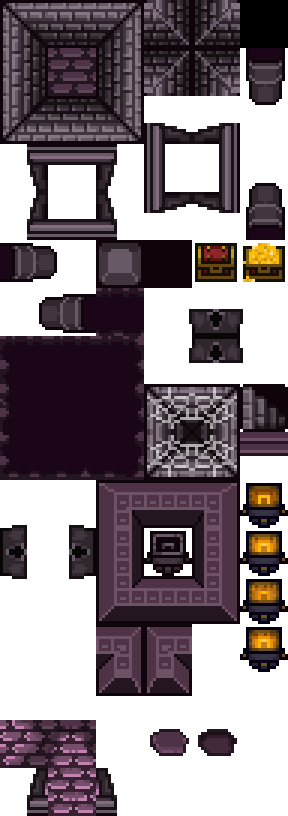
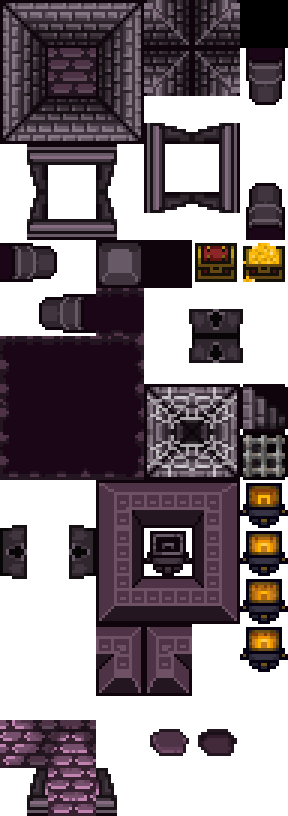
added boss

Changed region(s): [[0.8125, 0.5208, 1.0, 0.6127]]

diff --git a/src/objects/enemy.js b/src/objects/enemy.js
@@ -1,27 +1,56 @@
 import Phaser from 'phaser'
+import TILES from '../tile-mapping.js'
+
+// assets
 import enemies from '../assets/enemies.png'
+import deamonSprite from "../assets/deamon.png";
 
 export default class Enemy {
-  constructor(dungeon, map, room) {
-    this.dungeon = dungeon;
-    this.map = map;
-    this.room = room;
+  constructor(dungeon, map, room, type, dieCallback) {
+    this.dungeon = dungeon
+    this.map = map
+    this.room = room
+    this.type = type
     this.directionX = ['left', 'right'][Phaser.Math.Between(0, 1)]
     this.directionY = ['up', 'down'][Phaser.Math.Between(0, 1)]
     this.underAttack = false
-    this.hp = 3
+    this.dieCallback = dieCallback
 
     const x = map.tileToWorldX(Phaser.Math.Between(room.left + 1, room.right - 1))
     const y = map.tileToWorldX(Phaser.Math.Between(room.top + 1, room.bottom - 1))
 
-    this.sprite = this.dungeon.physics.add
-      .sprite(x, y, "enemies", 0)
-      .setSize(27, 28)
-      .setOffset(20, 35);
+    if (this.type === 'deamon') {
+      this.hp = 25
+      this.sprite = this.dungeon.physics.add.sprite(x, y, 'deamon', 1).setSize(75, 90).setOffset(23, 19)
+      this.sprite.anims.play("deamon-idle")
+      this.dungeon.tilemapVisibility.lights.push({
+        sprite: this.sprite,
+        darkness: () => 3
+      })
+    }
+    if (this.type === 'snake') {
+      this.hp = 3
+      this.sprite = this.dungeon.physics.add
+        .sprite(x, y, "enemies", 0)
+        .setSize(27, 28)
+        .setOffset(20, 35)
+      this.sprite.anims.play("enemy-walk")
+    }
 
-    this.sprite.anims.play("enemy-walk");
-
-    this.dungeon.physics.add.collider(this.sprite, this.dungeon.groundLayer);
+    this.dungeon.physics.add.collider(this.sprite, this.dungeon.groundLayer, (enemy, wall) => {
+      if ([TILES.WALL.TOP, ...TILES.DOOR.TOP].includes(wall.index)) {
+        this.directionY = 'down'
+      }
+      if ([TILES.WALL.RIGHT, ...TILES.DOOR.RIGHT[0]].includes(wall.index)) {
+        this.directionX = 'left'
+      }
+      if ([TILES.WALL.BOTTOM, ...TILES.DOOR.BOTTOM].includes(wall.index)) {
+        this.directionY = 'up'
+      }
+      if ([TILES.WALL.LEFT, ...TILES.DOOR.LEFT[0]].includes(wall.index)) {
+        this.directionX = 'right'
+      }
+    });
 
     this.dungeon.physics.add.overlap(this.dungeon.hero.sprites.hero, this.sprite, (hero, enemy) => {
       if (!this.dungeon.hero.underAttack) {
@@ -59,18 +88,23 @@ export default class Enemy {
         this.dungeon.cameras.main.shake(500, .002)
         this.underAttack = true
         this.hp--
-        if (this.dungeon.hero.lastDirection === 'up') {
-          enemy.body.setVelocityY(-300)
-        } else if (this.dungeon.hero.lastDirection === 'down') {
-          enemy.body.setVelocityY(300)
-        } else if (this.dungeon.hero.lastDirection === 'left') {
-          enemy.body.setVelocityX(-300)
-        } else if (this.dungeon.hero.lastDirection === 'right') {
-          enemy.body.setVelocityX(300)
+        if (this.hp) {
+          if (this.dungeon.hero.lastDirection === 'up') {
+            enemy.body.setVelocityY(-300)
+          } else if (this.dungeon.hero.lastDirection === 'down') {
+            enemy.body.setVelocityY(300)
+          } else if (this.dungeon.hero.lastDirection === 'left') {
+            enemy.body.setVelocityX(-300)
+          } else if (this.dungeon.hero.lastDirection === 'right') {
+            enemy.body.setVelocityX(300)
+          }
+          this.dungeon.time.delayedCall(750, () => {
+            this.underAttack = false
+          });
+        } else if (this.dieCallback) {
+          this.sprite.destroy()
+          this.dieCallback(this)
         }
-        this.dungeon.time.delayedCall(750, () => {
-          this.underAttack = false
-        });
       }
     });
   }
@@ -84,6 +118,14 @@ export default class Enemy {
         frameHeight: 64,
         margin: 1,
         spacing: 2
+      }
+    );
+    scene.load.spritesheet(
+      "deamon",
+      deamonSprite,
+      {
+        frameWidth: 122,
+        frameHeight: 118
       }
     );
   }
@@ -105,25 +147,13 @@ export default class Enemy {
         sprite.body.setVelocityX(speed);
         sprite.setFlipX(false);
       }
-      if (sprite.body.x <= this.map.tileToWorldX(this.room.x + 2)) {
-        this.directionX = 'right'
-      }
-      if (sprite.body.x >= this.map.tileToWorldX(this.room.x + this.room.width - 2)) {
-        this.directionX = 'left'
-      }
 
       // vertical movement
       if (this.directionY === 'up') {
-        sprite.body.setVelocityY(speed);
-      }
-      if (this.directionY === 'down') {
         sprite.body.setVelocityY(-speed);
       }
-      if (sprite.body.y <= this.map.tileToWorldY(this.room.y + 2)) {
-        this.directionY = 'up'
-      }
-      if (sprite.body.y >= this.map.tileToWorldY(this.room.y + this.room.height - 2)) {
-        this.directionY = 'down'
+      if (this.directionY === 'down') {
+        sprite.body.setVelocityY(speed);
       }
 
       // Normalize and scale the velocity so that sprite can't move faster along a diagonal

diff --git a/src/scenes/dungeon.js b/src/scenes/dungeon.js
@@ -148,7 +148,11 @@ export default class DungeonScene extends Phaser.Scene {
     });
 
     // Place the stairs
-    this.stuffLayer.putTileAt(TILES.STAIRS, this.endRoom.centerX, this.endRoom.centerY);
+    this.stuffLayer.putTileAt(
+      this.restRoom ? TILES.STAIRS.CLOSED : TILES.STAIRS.OPEN,
+      this.endRoom.centerX,
+      this.endRoom.centerY
+    );
 
     // prepare rest room if exists
     if (this.restRoom) {
@@ -208,9 +212,23 @@ export default class DungeonScene extends Phaser.Scene {
       this.otherRooms.forEach(room => {
         const num = Phaser.Math.Between(1, maxEnemies)
         for (let i = 1; i <= num; i++) {
-          this.enemies.push(new Enemy(this, this.map, room));
+          this.enemies.push(new Enemy(this, this.map, room, 'snake', (enemy) => {
+            Phaser.Utils.Array.Remove(this.enemies, enemy)
+          }));
         }
       })
+
+      if (this.restRoom) {
+        this.enemies.push(new Enemy(this, this.map, this.endRoom, 'deamon', (enemy) => {
+          this.tilemapVisibility.removeLight(enemy.sprite)
+          Phaser.Utils.Array.Remove(this.enemies, enemy)
+          this.stuffLayer.putTileAt(
+            TILES.STAIRS.OPEN,
+            this.endRoom.centerX,
+            this.endRoom.centerY
+          );
+        }));
+      }
     }
   }
 
@@ -270,21 +288,14 @@ export default class DungeonScene extends Phaser.Scene {
     // add shadows and set active room
     const shadowLayer = this.map.createBlankDynamicLayer("Shadow", this.tileset).fill(TILES.BLANK).setDepth(5);
     const roomShadowLayer = this.map.createBlankDynamicLayer("RoomShadow", this.tileset).fill(TILES.BLANK).setDepth(5);
-    this.tilemapVisibility = new TilemapVisibility(this, shadowLayer, roomShadowLayer, this.restRoom, this.hero, this.level);
+    this.tilemapVisibility = new TilemapVisibility(shadowLayer, roomShadowLayer, this.restRoom, this.hero, this.level);
     this.tilemapVisibility.setShadow()
     this.tilemapVisibility.setActiveRoom(this.startRoom)
   }
 
   update() {
     this.hero.update()
-    this.enemies.forEach(e => {
-      if (e.hp) {
-        e.update()
-      } else {
-        e.sprite.destroy()
-        Phaser.Utils.Array.Remove(this.enemies, e)
-      }
-    })
+    this.enemies.forEach(e => e.update())
     // Find the player's room using another helper method from the dungeon that converts from
     // dungeon XY (in grid units) to the corresponding room object
     const playerRoom = this.dungeon.getRoomAt(

diff --git a/src/objects/hero.js b/src/objects/hero.js
@@ -34,7 +34,7 @@ export default class Hero {
     this.scene.input.keyboard.on('keyup-E', () => {
       // stairs
       const tile = this.scene.stuffLayer.getTileAtWorldXY(this.sprites.hero.body.x, this.sprites.hero.body.y)
-      if (tile && tile.index === TILES.STAIRS) {
+      if (tile && tile.index === TILES.STAIRS.OPEN) {
         const nextLevel = this.scene.level + 1
         this.scene.scene.sleep()
         if (this.scene.scene.get('Dungeon' + nextLevel)) {

diff --git a/src/animations.js b/src/animations.js
@@ -127,6 +127,12 @@ export default class Animations {
       frameRate: 4,
       repeat: -1
     });
+    anims.create({
+      key: "deamon-idle",
+      frames: anims.generateFrameNumbers("deamon", { start: 0, end: 5 }),
+      frameRate: 4,
+      repeat: -1
+    });
   }
 
   static items(anims) {

diff --git a/src/tile-mapping.js b/src/tile-mapping.js
@@ -35,5 +35,8 @@ export default {
     Y: 91
   },
   CHEST: 34,
-  STAIRS: 53
+  STAIRS: {
+    OPEN: 53,
+    CLOSED: 59
+  }
 }
